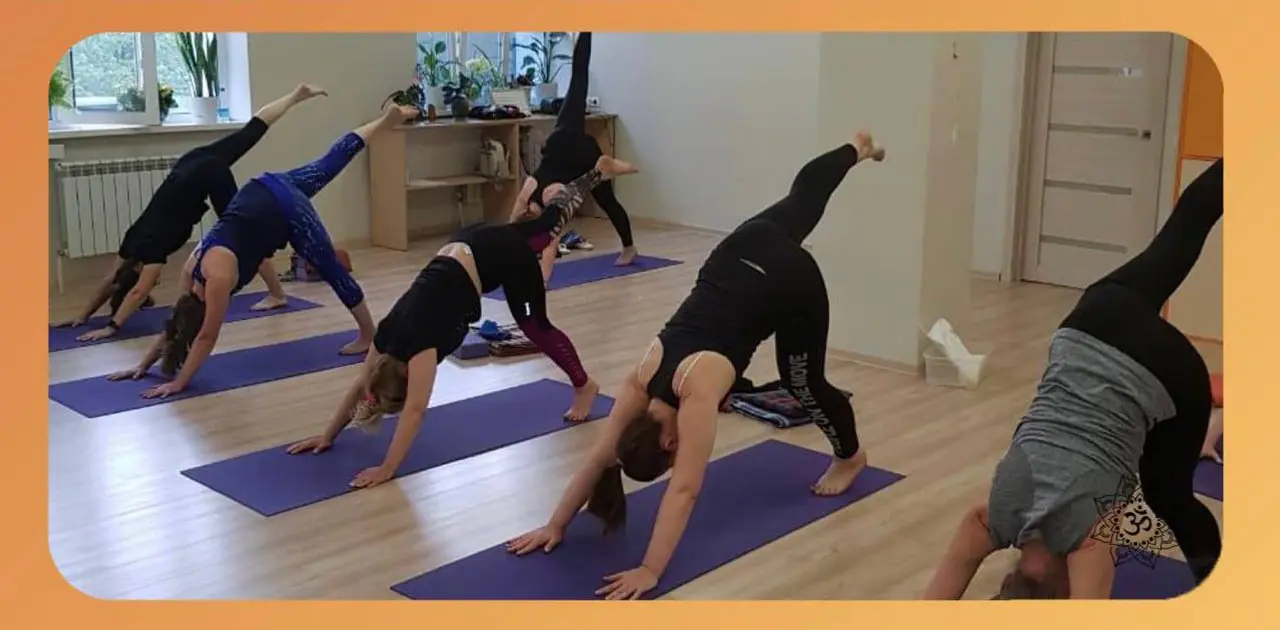
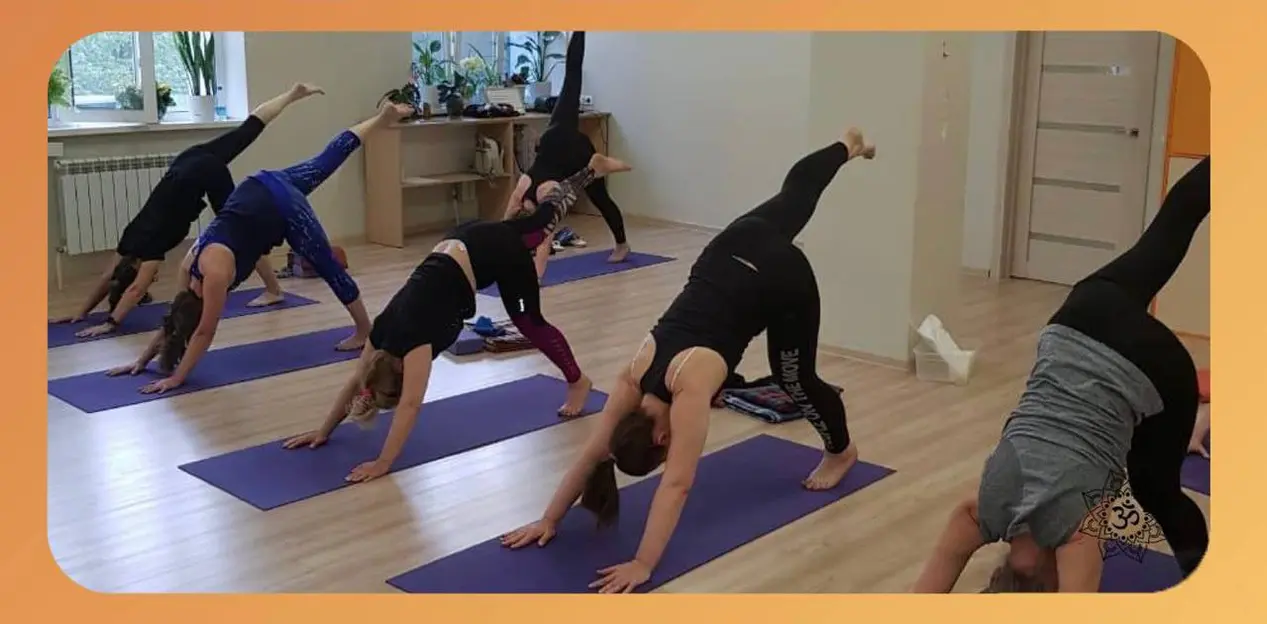
fix: resize images

diff --git a/lib/base64.ts b/lib/base64.ts
@@ -1,7 +1,7 @@
 import type { Base64 } from '@/lib/images'
 
 const base64: Base64 = {
[5 lines of base64/hex data omitted]

diff --git a/public/images/home/webpify.ts b/public/images/home/webpify.ts
@@ -8,12 +8,12 @@ const base64: Record<string, string> = {}
 async function webpify(inputPath: string) {
   try {
     await sharp(`${inputPath}.jpeg`) // входящий файл (inputPath)
-      .resize({ width: 1280, height: 632, fit: 'inside' })
+      .resize({ width: 1280, height: 624, fit: 'inside' })
       .webp({ quality: 75 }) // настройка качества
       .toFile(`${inputPath}.webp`) // выходящий файл (inputPath)
     
     const buffer = await sharp(`${inputPath}.jpeg`)
-      .resize({ width: 160, height: 79, fit: 'inside' })
+      .resize({ width: 320, height: 156, fit: 'inside' })
       .toBuffer()
 
     // Конвертируем в base64

diff --git a/components/HomeCarousel.tsx b/components/HomeCarousel.tsx
@@ -42,8 +42,8 @@ export const HomeCarousel: React.FC<Props> = ({ className }) => {
                   // priority
                   src={`/images/home/${image}.webp`} 
                   className="rounded-lg"
-                  width={900}
-                  height={450}
+                  width={1280}
+                  height={624}
                   alt={image}
                   placeholder="blur"
                   blurDataURL={base64[image]}
